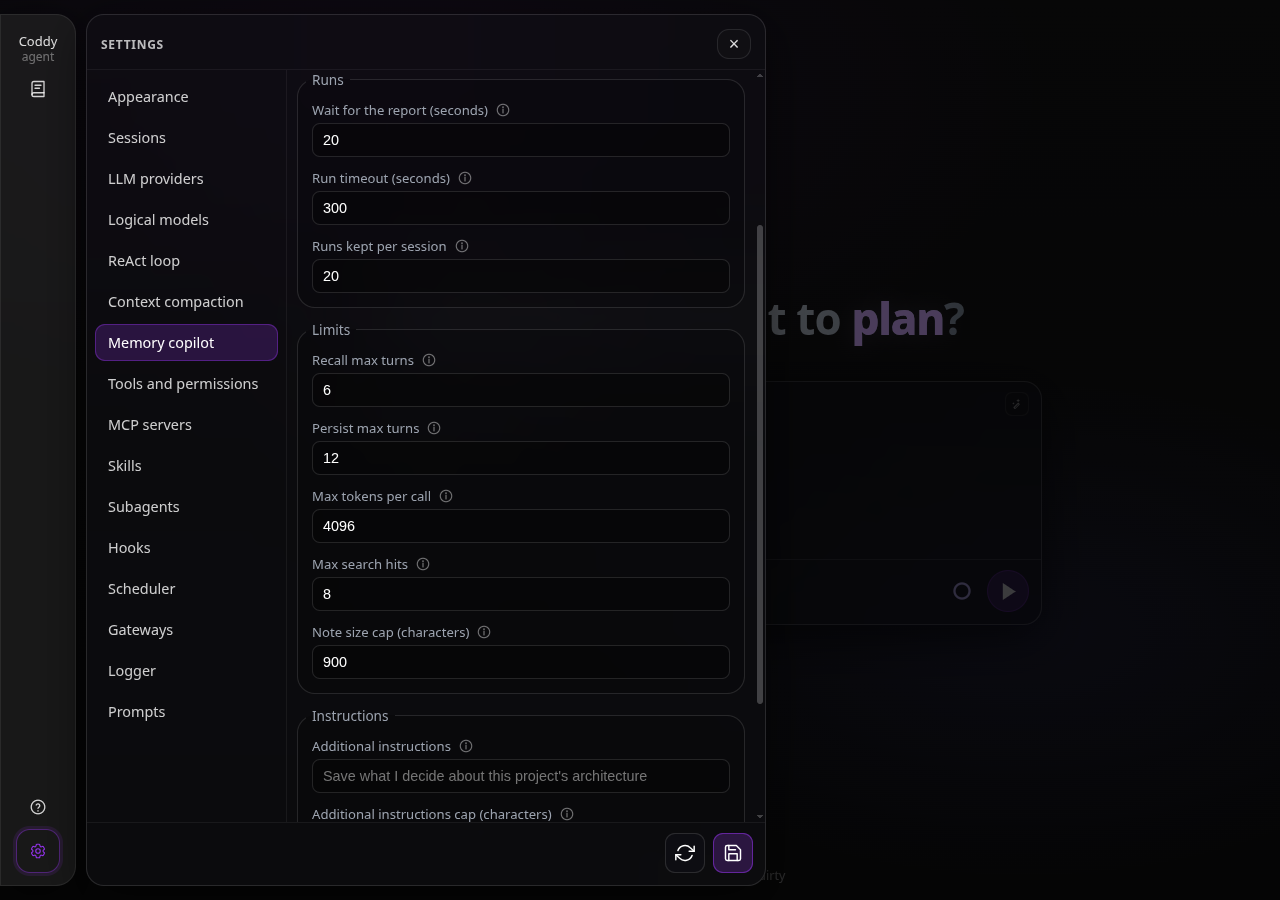
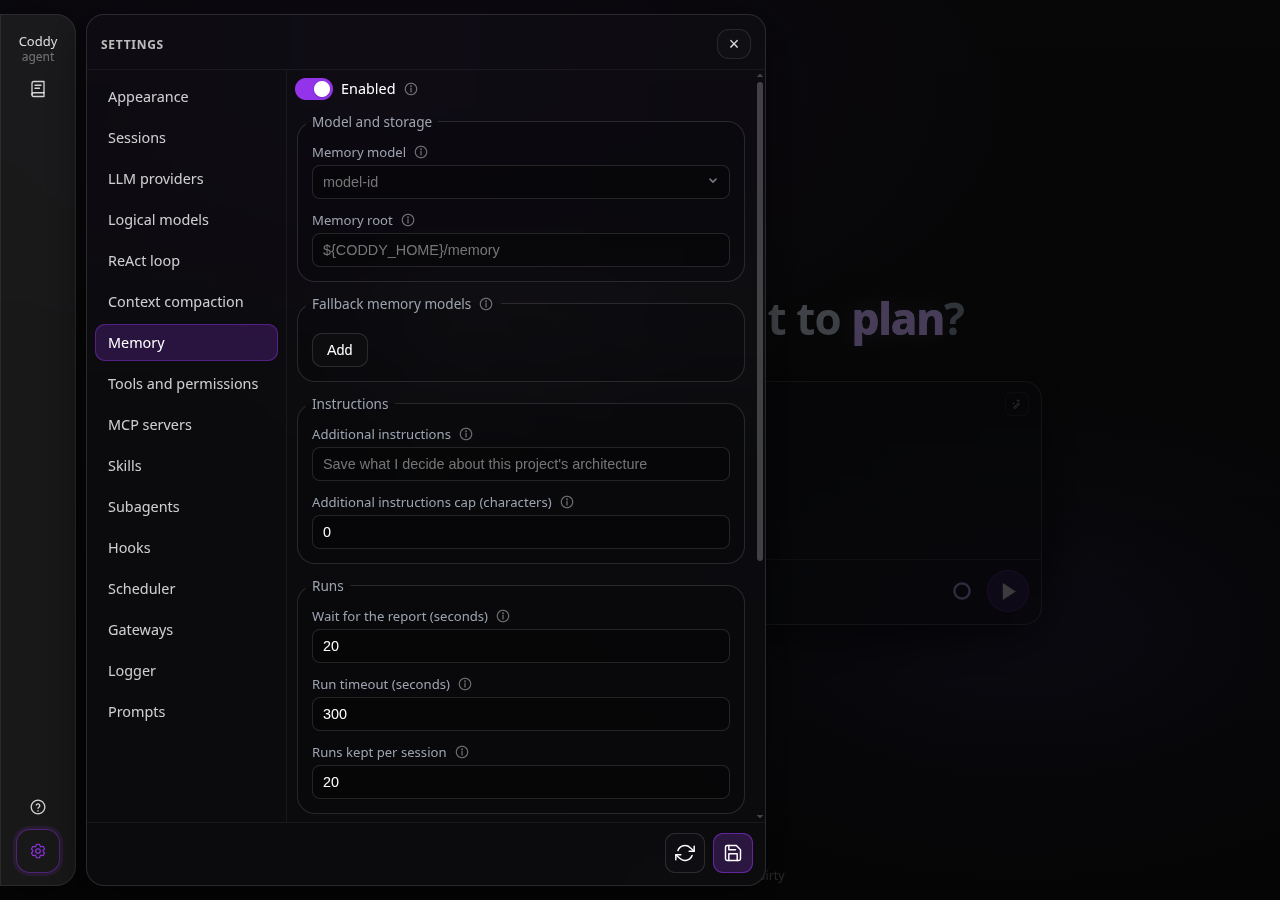
feat(ui): rename the Memory copilot tab to Memory and reorder its blocks
The settings tab is "Memory" ("Память" in Russian). Its blocks now read
Model and storage, Fallback memory models, Instructions, Runs, Limits: the
fallback list follows the model it backs up instead of closing the form,
and the operator's instructions come before the run bounds. DESIGN.md, the
web UI notes, the memory guide and its screenshot follow.

diff --git a/external/ui/src/ui/settings/settingsSections.test.ts b/external/ui/src/ui/settings/settingsSections.test.ts
@@ -41,7 +41,7 @@ const rootSchema: JsonSchema = {
     agent: { type: "object", title: "ReAct loop", properties: {} },
     tools: { type: "object", title: "Tools and permissions", properties: {} },
     skills: { type: "object", title: "Skills", properties: {} },
-    memory: { type: "object", title: "Memory copilot", properties: {} },
+    memory: { type: "object", title: "Memory", properties: {} },
     scheduler: { type: "object", title: "Scheduler", properties: {} },
     prompts: { type: "object", title: "Prompts", properties: {} },
     instructions: { type: "object", title: "Instructions", properties: {} },
@@ -154,7 +154,7 @@ test("skills is its own combined tab; english labels match schema titles", () =>
   expect(byId.skills?.kind).toBe("skills");
   expect(byId.agent?.kind).toBe("object");
   expect(byId.agent?.label).toBe("ReAct loop");
-  expect(byId.memory?.label).toBe("Memory copilot");
+  expect(byId.memory?.label).toBe("Memory");
 });
 
 test("known section labels and descriptions follow the active locale", () => {
@@ -165,7 +165,7 @@ test("known section labels and descriptions follow the active locale", () => {
   expect(byId.appearance?.label).toBe("Оформление");
   expect(byId.providers?.label).toBe("Провайдеры LLM");
   expect(byId.tools?.label).toBe("Инструменты и разрешения");
-  expect(byId.memory?.label).toBe("Копайлот памяти");
+  expect(byId.memory?.label).toBe("Память");
   expect(byId.scheduler?.label).toBe("Планировщик");
   expect(byId.compaction?.label).toBe("Сжатие контекста");
   expect(byId.compaction?.description).toBe("Сжатие истории диалога");

diff --git a/external/ui/src/ui/settings/SettingsSection.tsx b/external/ui/src/ui/settings/SettingsSection.tsx
@@ -781,6 +781,11 @@ function objectSectionGroups(key: string): SchemaFormGroup[] | undefined {
         paths: ["model", "dir"],
       },
       {
+        id: "instructions",
+        legend: translate("settings.group.memory.instructions"),
+        paths: ["additional_prompt", "additional_prompt_max_chars"],
+      },
+      {
         id: "runs",
         legend: translate("settings.group.memory.runs"),
         paths: ["wait_seconds", "timeout_seconds", "keep_runs"],
@@ -795,11 +800,6 @@ function objectSectionGroups(key: string): SchemaFormGroup[] | undefined {
           "max_search_hits",
           "max_note_chars",
         ],
-      },
-      {
-        id: "instructions",
-        legend: translate("settings.group.memory.instructions"),
-        paths: ["additional_prompt", "additional_prompt_max_chars"],
       },
     ];
   }

diff --git a/external/ui/src/ui/i18n/messages/ru.ts b/external/ui/src/ui/i18n/messages/ru.ts
@@ -83,7 +83,7 @@ export const messagesRu: Record<string, string> = {
   "settings.section.tools.label": "Инструменты и разрешения",
   "settings.section.mcp_servers.label": "MCP-серверы",
   "settings.section.skills.label": "Навыки",
-  "settings.section.memory.label": "Копайлот памяти",
+  "settings.section.memory.label": "Память",
   "settings.section.system.label": "Промпты",
   "settings.section.compaction.label": "Сжатие контекста",
   "settings.section.subagents.label": "Субагенты",

diff --git a/external/ui/src/ui/i18n/messages/en.ts b/external/ui/src/ui/i18n/messages/en.ts
@@ -88,7 +88,7 @@ export const messagesEn: Record<string, string> = {
   "settings.section.tools.label": "Tools and permissions",
   "settings.section.mcp_servers.label": "MCP servers",
   "settings.section.skills.label": "Skills",
-  "settings.section.memory.label": "Memory copilot",
+  "settings.section.memory.label": "Memory",
   "settings.section.system.label": "Prompts",
   "settings.section.compaction.label": "Context compaction",
   "settings.section.subagents.label": "Subagents",

diff --git a/internal/config/ui_schema.go b/internal/config/ui_schema.go
@@ -605,7 +605,7 @@ func UISchemaMap() map[string]interface{} {
 			},
 			[]string{"dirs", "project_trust", "auto_discovery"},
 			nil),
-		"memory": objectSchema("Memory copilot", "Optional memory subagent (requires the memory build tag and a provider).",
+		"memory": objectSchema("Memory", "Optional memory subagent (requires the memory build tag and a provider).",
 			map[string]interface{}{
 				"enable": boolProp("Enabled", "Runs the memory subagent on every user turn (memory build tag)."),
 				"model":  strProp("Memory model", "Logical model the memory subagent runs on; empty uses the session's model."),
@@ -627,7 +627,7 @@ func UISchemaMap() map[string]interface{} {
 				"additional_prompt":           strProp("Additional instructions", "Your own instructions for the memory subagent, a section of its system prompt; the main agent never sees them."),
 				"additional_prompt_max_chars": intProp("Additional instructions cap (characters)", "Longer instructions are cut at this many characters, with a warning in the log; 0 means no cap."),
 			},
-			[]string{"enable", "model", "dir", "wait_seconds", "timeout_seconds", "keep_runs", "recall_max_turns", "persist_max_turns", "copilot_max_tokens", "max_search_hits", "max_note_chars", "additional_prompt", "additional_prompt_max_chars"},
+			[]string{"enable", "model", "dir", "fallback_models", "additional_prompt", "additional_prompt_max_chars", "wait_seconds", "timeout_seconds", "keep_runs", "recall_max_turns", "persist_max_turns", "copilot_max_tokens", "max_search_hits", "max_note_chars"},
 			nil),
 		"scheduler": objectSchema("Scheduler", "Cron-style scheduled jobs (requires scheduler build tag). A run is a background agent task under the job's own session, the job's run history.",
 			map[string]interface{}{

diff --git a/DESIGN.md b/DESIGN.md
@@ -81,14 +81,14 @@ The right insights rail is removed for the current milestone.
 
 ### Settings drawer (tabbed master–detail)
 
-The **Settings** drawer (**`#/settings`**, **`Settings.tsx`**) is **tabbed**, not one long sheet. Tabs are derived from the live config JSON Schema (**`deriveSettingsSections`** over **`/coddy/config/schema`**): each top-level property is a tab (label from its **`title`**, or from **`settings.section.<id>.label`**) in the schema's own order (**`rootOrder`** in **`internal/config/ui_schema.go`**, pinned by **`TestUISchemaRootPropertyOrder`**), which reads in groups of meaning: where the models come from (**LLM providers**, **Logical models**), the loop that runs them (**ReAct loop**, **Context compaction**, **Memory copilot**), what the agent can do (**Tools and permissions**, **MCP servers**, **Skills**, **Subagents**, **Hooks**), what runs it without a person at the composer (**Scheduler**, **Gateways**), and the operation of the process (**Logger**, **Prompts**). The rarely edited tail (**`prompts`**, **`instructions`**; **`SYSTEM_KEYS`** in **`settingsSections.ts`**) folds into a single **Prompts** tab (id **`system`**, **`#/settings/system`**: the address and the id kept their old name), which always closes the list wherever its keys stand; the scheduler, the logger and the gateways are features with tabs of their own, and the **`sessions`** section (where the bundles are stored) is edited on the **Sessions** tab (**`SESSIONS_CONFIG_KEY`**). Two client-side tabs are placed **first** - **Appearance** (the default tab) and **Sessions** (**`sessions_manager`**, the session management table below). Both render before the schema has loaded; the Sessions tab adds its **Storage** fieldset once it has. There is no separate Appearance/Skills flyout or **`settings-dock-cluster`** side panel — both are tabs now.
+The **Settings** drawer (**`#/settings`**, **`Settings.tsx`**) is **tabbed**, not one long sheet. Tabs are derived from the live config JSON Schema (**`deriveSettingsSections`** over **`/coddy/config/schema`**): each top-level property is a tab (label from its **`title`**, or from **`settings.section.<id>.label`**) in the schema's own order (**`rootOrder`** in **`internal/config/ui_schema.go`**, pinned by **`TestUISchemaRootPropertyOrder`**), which reads in groups of meaning: where the models come from (**LLM providers**, **Logical models**), the loop that runs them (**ReAct loop**, **Context compaction**, **Memory**), what the agent can do (**Tools and permissions**, **MCP servers**, **Skills**, **Subagents**, **Hooks**), what runs it without a person at the composer (**Scheduler**, **Gateways**), and the operation of the process (**Logger**, **Prompts**). The rarely edited tail (**`prompts`**, **`instructions`**; **`SYSTEM_KEYS`** in **`settingsSections.ts`**) folds into a single **Prompts** tab (id **`system`**, **`#/settings/system`**: the address and the id kept their old name), which always closes the list wherever its keys stand; the scheduler, the logger and the gateways are features with tabs of their own, and the **`sessions`** section (where the bundles are stored) is edited on the **Sessions** tab (**`SESSIONS_CONFIG_KEY`**). Two client-side tabs are placed **first** - **Appearance** (the default tab) and **Sessions** (**`sessions_manager`**, the session management table below). Both render before the schema has loaded; the Sessions tab adds its **Storage** fieldset once it has. There is no separate Appearance/Skills flyout or **`settings-dock-cluster`** side panel — both are tabs now.
 
 - **Saving**: there is **no per-section save button**. The drawer footer keeps only **Reload** (**`data-testid="settings-reload"`**) and **Save all** (**`data-testid="settings-save"`**, PUTs the whole config after `/coddy/config/validate`). **Appearance** is client-side only and never touches the config PUT. **A save that went through says so on the Save button alone**: it turns green (**`.is-saved`**: green border, wash and a 2px halo, a short scale pop) for **`SAVE_SUCCESS_MS`** (2 s, **`Settings.tsx`**) and eases back to its own colour, with no line of text on screen (a screen reader hears **Saved** from an **`.sr-only`** status). The green is a state rather than a frame of the pop, so it holds under **`prefers-reduced-motion`**, where only the pop goes. **A failed save says why in words** in the lead pane (**`.settings-lead-pane`**, **`.settings-error`**), which stands between the head and the tabs only while a failed read or a failed save needs saying; the Save button stays as it was. The success line that used to sit in that pane (**All sections saved**) stayed on screen for as long as the drawer did, and it is gone.
 - **Loading**: the app keeps the schema and the config the drawer reads (**`settingsConfigStore.ts`**), so **only the first open of the page reads them**; every later open draws the tab the address names from that copy in its first frame, with no request and no other tab in between. The copy follows the server: **`config_reloaded`** and every reconnect of the events stream read it again in the background (**`noteSettingsConfigReloaded`** from **`App.tsx`**), and an open form takes the new copy while it holds no edits of its own - unsaved edits stay, and **Reload** is the deliberate way to drop the ones the form held when it was pressed (a field typed into while its read is on its way keeps what was typed). A save turns the button green only when the form was not edited while the request ran; a copy the untouched form took in the meantime is no edit. A save puts what it wrote into the copy at once (**`noteSettingsConfigSaved`**), so a reopen before the read after the save lands, or after that read failed, draws the saved values rather than the ones the save replaced; a read older than the save is dropped, and a copy older than a read that failed is read again by the next open. The first open, and an open after a first read that failed, shows **the requested tab as a skeleton** (**`SettingsSkeleton`**, **`data-testid="settings-skeleton"`**: a frame of grey label and input bars tinted from **`--text`**, shimmering unless **`prefers-reduced-motion`**), with grey rows in the rail (**`.settings-nav-item--placeholder`**) or the tile grid (**`.settings-tile--placeholder`**) for the tabs the schema will bring; the narrow shell's head names the section from the dictionary (**`knownSectionLabel`**). Appearance, which needs no schema, no longer stands in for the tab a deep link asked for. A copy that lands is taken **while rendering**, not in an effect after it: a frame drawn from an empty document showed a list with no rows, and the list read the **`?id=`** of the address as a stale row and rewrote it.
 - **Layout**: on **`min-width: 1200px`** the drawer is **`min(680px, …)`** wide - as wide as the section rail plus a content column that holds **three theme cards a row** on Appearance (**`auto-fill, minmax(130px, 1fr)`**, 10px gap), the cards keeping their size and the drawer giving way; **`appearanceSettingsLayout.test.tsx`** computes the column count from the two rules - with a vertical section rail on the left (**`.settings-nav`**) and the content panel on the right (**`.settings-tabs-layout`** is `display:flex; row`). On **`max-width: 1199px`** (same breakpoint as the rest of the shell, via **`isMobileShell`** / **`shellBreakpoint.ts`**) the nav is a **2-wide tile grid** master–detail (**`SettingsTileGrid`**, **`.settings-tile-grid`**): each tile (**`data-testid="settings-tile-<id>"`**) shows the section **title** on top and a short 3–5 word **description** below (**`SECTION_DESCRIPTIONS`** in **`settingsSections.ts`**) styled after the Scheduler job rows. The description clamps to two lines with an ellipsis (**`-webkit-line-clamp: 2`**) and the full text shows in a native **`title`** tooltip on hover. Tapping a tile opens that section with a **← Back to sections** arrow in the drawer's head (**`.settings-head-back`**); the desktop rail (**`SettingsNav`**) is unchanged. On that shell the drawer has **one inline inset**, **14px**, set by the head and the lead pane: the tile grid, the section content (**`.settings-scroll`**) and the reload / save footer all ride it (**`padding-inline: 14px`** inside the **`max-width: 1199px`** block), and the tile grid keeps the same **14px** off the head's rule above it, so every band of the panel starts and ends on the same edge. The wide layout keeps the content panel's own **8px**, because there its left edge is the seam against the section rail rather than the drawer's edge.
 - **Secrets the server never sends back** (**`writeOnly`** in the schema, **`x-coddy-configured`** on the document): **`httpserver.auth_token`**, the sign-in password hash and the swarm tokens (**`swarm.auth_token`**, **`swarm.pairing_tokens`**, a join entry's **`pairing_token`** and **`token`**) come back from **`GET /coddy/config`** as a **`*_configured`** flag, never as a value. Such a field is a password input that is **empty** while a value is set and says so in its placeholder (**Set. Leave empty to keep it**, else **Not set**); leaving it empty keeps the stored value, typing replaces it. A list of secrets says how many are set and hidden in a state line under its legend (**`settings.secret.listSet`**, counted per locale), and the values entered in it replace them all. The two-way credentials - a provider's **`api_key`**, a remote's **`token`** - stay ordinary text fields, because the page needs their value.
 - **The relay's own Settings.** On a relay's home (the app on a relay, not on a node behind it) the drawer edits the relay's deployment: **`GET /coddy/config/schema`** answers with the relay's form (**`config.RelayUISchemaJSON`**: **`swarm`** and **`logger`** only, **`x-coddy-relay: true`** at the root), and **`deriveSettingsSections(schema, {relay: true})`** draws **Appearance** and those two tabs; the **Sessions** tab, which manages the stored sessions of an agent, is left out, even before the schema has arrived. The document is scoped the same way (**`configapi.Backend.Sections`**): **`GET /coddy/config`** serves only **`swarm`**, **`logger`** and the revision, and a save takes only those and refuses any other section, so a relay client never reads the host's provider keys or writes its other settings. **Save all** PUTs that document, and the relay applies the **`swarm`** section at once (a listen address that moved takes a restart); the **`logger`** section is read when the process starts next, as an agent's is. A node reached through a relay shows that node's own Settings; a node that is itself a relay refuses a write sent through the mount (**403**), so a relay is edited only on its own page.
-- **Section form layout** (**`SchemaForm`** **`groups`**, **`SchemaFormGroup`** **`{id, legend, description?, paths?, collapsible?}`**): a settings form is fieldsets by meaning, not a column of loose fields. A section's own **`enable`** switch opens the form **outside every fieldset**, above everything, wherever the schema puts it (Subagents, Hooks, Memory copilot, Context compaction, Scheduler). A group with **`paths`** takes exactly those keys; the **first** group without **`paths`** is the catch-all and takes every key no group names, except a list or a nested object, which stands as a **block of its own** beside it rather than inside it. Every group stands **where its first field stands** in the schema order, blocks stand in place, and a key no group takes (one added to the schema later) still renders in place, so nothing silently leaves the form. A group's **`description`** is the (i) of its legend. The groups of each tab live in **`objectSectionGroups`** (**`SettingsSection.tsx`**): **ReAct loop** (Model and turns, Retries, Stream timeouts, Loop guard, Usage limits), **Context compaction** (Summarization), **Memory copilot** (Model and storage, Runs, Limits, Instructions), **Tools and permissions** (Permissions), **Hooks** (Hook settings), **Scheduler** (Jobs), **Logger** (Logger settings); the **Logical models** row form (**Model**: provider, id, context window, multimodal; **Generation**: max tokens, temperature, streaming; **Reasoning**: the levels and the default, passed through **`SettingsArraySection`** like the provider form's blocks), **Subagents** (Subagent settings), the **Sessions** tab (Storage) and each part of the **Prompts** tab (**Prompt templates**, and **Instruction files** as a block of its own) pass their own. Inside a nested object a list keeps its frame - the Telegram admins, user groups and per-chat overrides, the web search engines: there it belongs to the block around it. **Lists**: an entry of a list of plain values is a **bare input** beside its trash (**`ArrayItemControl`**, named **&lt;list&gt; N** for assistive technology), with no per-row label such as **`dirs[0]`**, no rule under the row, and **Add** under the rows; an entry of a list of objects is a frame of its own **without a legend** (**`.settings-array-entry`**, named the same way). The trash carries no margin, so a row is exactly as tall as its input (**`settingsDrawerRhythmCss.test.ts`**). **Maps**: a map of plain values - an object with no properties of its own whose every value is a string (**`isStringMapSchema`**), such as **`tools.http_request.default_headers`** - is a block like a list, and an entry is a row of **two bare inputs**, the name and then the value (**`.settings-map-entry`**, the value wider), beside its trash, named **&lt;map&gt; N: name** and **&lt;map&gt; N: value**, with **Add** under the rows. The rows are the form's own (**`StringMapField`**): a row whose name is still empty stays on screen and out of the document, of two rows with one name the later one wins, and a document that stops matching the rows (a reload, a save from elsewhere) replaces them while rendering. An empty value is kept, since for the headers it means "leave this one out". Tests: **`SchemaForm.groups.test.tsx`**, **`SchemaForm.map.test.tsx`**.
+- **Section form layout** (**`SchemaForm`** **`groups`**, **`SchemaFormGroup`** **`{id, legend, description?, paths?, collapsible?}`**): a settings form is fieldsets by meaning, not a column of loose fields. A section's own **`enable`** switch opens the form **outside every fieldset**, above everything, wherever the schema puts it (Subagents, Hooks, Memory, Context compaction, Scheduler). A group with **`paths`** takes exactly those keys; the **first** group without **`paths`** is the catch-all and takes every key no group names, except a list or a nested object, which stands as a **block of its own** beside it rather than inside it. Every group stands **where its first field stands** in the schema order, blocks stand in place, and a key no group takes (one added to the schema later) still renders in place, so nothing silently leaves the form. A group's **`description`** is the (i) of its legend. The groups of each tab live in **`objectSectionGroups`** (**`SettingsSection.tsx`**): **ReAct loop** (Model and turns, Retries, Stream timeouts, Loop guard, Usage limits), **Context compaction** (Summarization), **Memory** (Model and storage, then the fallback models as a block of their own, Instructions, Runs, Limits), **Tools and permissions** (Permissions), **Hooks** (Hook settings), **Scheduler** (Jobs), **Logger** (Logger settings); the **Logical models** row form (**Model**: provider, id, context window, multimodal; **Generation**: max tokens, temperature, streaming; **Reasoning**: the levels and the default, passed through **`SettingsArraySection`** like the provider form's blocks), **Subagents** (Subagent settings), the **Sessions** tab (Storage) and each part of the **Prompts** tab (**Prompt templates**, and **Instruction files** as a block of its own) pass their own. Inside a nested object a list keeps its frame - the Telegram admins, user groups and per-chat overrides, the web search engines: there it belongs to the block around it. **Lists**: an entry of a list of plain values is a **bare input** beside its trash (**`ArrayItemControl`**, named **&lt;list&gt; N** for assistive technology), with no per-row label such as **`dirs[0]`**, no rule under the row, and **Add** under the rows; an entry of a list of objects is a frame of its own **without a legend** (**`.settings-array-entry`**, named the same way). The trash carries no margin, so a row is exactly as tall as its input (**`settingsDrawerRhythmCss.test.ts`**). **Maps**: a map of plain values - an object with no properties of its own whose every value is a string (**`isStringMapSchema`**), such as **`tools.http_request.default_headers`** - is a block like a list, and an entry is a row of **two bare inputs**, the name and then the value (**`.settings-map-entry`**, the value wider), beside its trash, named **&lt;map&gt; N: name** and **&lt;map&gt; N: value**, with **Add** under the rows. The rows are the form's own (**`StringMapField`**): a row whose name is still empty stays on screen and out of the document, of two rows with one name the later one wins, and a document that stops matching the rows (a reload, a save from elsewhere) replaces them while rendering. An empty value is kept, since for the headers it means "leave this one out". Tests: **`SchemaForm.groups.test.tsx`**, **`SchemaForm.map.test.tsx`**.
 - **List sections** (**LLM Providers**, **Logical Models**) are **master–detail** (**`SettingsArraySection`**): a list of named buttons (labelled by **`name`** / **`model`**) with **Add**/**Remove**; **Add** or selecting a row hides the list and shows the item form. **The way back is the drawer's head, on every width**: while a row form is open the head reads what the form is (**`settings.item.<section>`**: **Provider settings**, **Model settings**; the section's name for a list without one) behind the same round back arrow the narrow shell's section view uses (**`.settings-head-back`**, **`data-testid="settings-head-back"`**, named **Back to &lt;list&gt;**), and the arrow closes the form onto the list (**`closeSignal`**; the list reports **`onEditingChange`**, so a row with no name yet is covered too). With no row open the desktop head reads **Settings** and the narrow shell's head names the section with its arrow back to the tiles. **Escape** takes the step the arrow takes while the head shows one, and closes the drawer when it shows none (**Escape and the screens of the rail**). The form carries no back control of its own inside the drawer (**`hideBackLink`**); outside it, **`SettingsArraySection`** keeps a quiet link, **`.settings-back-link`**, the app's chevron pointing left and the list's name. The open row is in the address, **`#/settings/<section>?id=<name>`** (**`appNavHrefSettingsSection`**, the name URL-encoded, so **`demo/qwen3.8-27b`** travels as **`demo%2Fqwen3.8-27b`**): opening a row writes it, going back takes it out, renaming the open row rewrites it (all with **`replaceState`**, no history entries), and an address naming a row opens it - one that names no row (a typo, a row deleted since) shows the list and drops the dead name from the address. The row form is **keyed by the row**, so switching rows through the address (edit to edit, never through the list) mounts a fresh form and nothing a field remembers - the proxy URL, a filter, a fold - crosses rows; an open form whose index is gone from the document falls back to the list. A row with no name yet keeps the address on the list while its form stays open; the row already open under a name stays open when a rename makes two rows share it. **`SettingsArraySection.test.tsx`** pins both directions; the drawer hands the address row only to the section the address names (**`appearanceSettingsLayout.test.tsx`**), because the tab catches up one render late and another list used to take the name for one of its own, find none and rewrite the address. The component is **keyed by the section** in **`SettingsSection`**: both tabs render the same component at the same place in the tree, and without the key a row form opened under LLM Providers stayed on screen when the operator switched to Logical Models, showing the first model's form instead of the list.
 - **Codex provider authentication**: when a provider row has **`type: codex`**, **`api_base`**, **`api_key`**, and **`api_key_command`** controls are replaced by **Sign In with ChatGPT**. The device-flow card shows the one-time code, a link to the official verification page, waiting/completed/error state, and **Sign Out** for Coddy-managed credentials. The token is server-side only.
 - **Proxy settings** (**`ProxySettingField`**, rendered through **`SchemaForm`**’s **`fieldOverride`** hook on path **`proxy`** for every provider type, codex included, and on **`telegram.proxy`** in the Gateways tab's Telegram block): an **Ignore system proxy** **`SwitchField`** (**`data-testid="proxy-setting-direct"`**) above the **Proxy URL** input (**`data-testid="proxy-setting-url"`**), both direct children of the form so they keep its spacing. The switch description names whose requests go direct (the provider's, or the bot's). The switch owns the **`none`** value; with it on the input is disabled (the muted look **`.settings-input:disabled`** shares with read-only inputs), empty, and its placeholder reads **Direct connection**. With it off the input holds the proxy URL, and an empty one (no value, or a stored **`inherit`**, any case) reads **Follows the system proxy**. Turning the switch off restores the last value the row held that was not **`none`** (typed, pasted or reloaded); that memory lives in the field for as long as the item form is open - the form mounts afresh for every row - because the document keeps one value, so a saved **`none`** no longer knows the URL it replaced.
@@ -96,7 +96,7 @@ The **Settings** drawer (**`#/settings`**, **`Settings.tsx`**) is **tabbed**, no
 - **Fieldset legends** start on the line their fields' labels start on: the legend's **6px** of padding, which opens the gap in the frame, is pulled back by **`margin-left: -6px`** (**`.settings-fieldset > legend`**, every settings fieldset); the provider **Models** rows hang their own 6px of padding the same way, so the ids share that line too.
 - **Provider form blocks**: a provider's form is three fieldsets (**`SchemaForm`** **`groups`**, passed through **`SettingsArraySection`**): **Provider settings** (id, type, endpoint, key, the sign-in blocks, the usage switch - every key no other group names), **Advanced settings** (**`api_key_command`**, **`proxy`**, **`timeout_ms`**), folded until opened, and the **Models** list last. A folding fieldset (**`CollapsibleFieldset`**) has the app's chevron **hanging in front of its name** in the legend (**`.settings-fieldset-toggle`**, **`aria-expanded`**), the way a transcript row's hangs in front of its label: the legend reaches **18px** further left than a plain one (**`margin-left: -24px`**: the plain -6px, then the 14px chevron and its 4px gap), so the name starts on the same line as every other legend's, and opened, the frame's gap takes the chevron in too. **Folded, there is no frame at all** - no border, no background, only the chevron and the name (**`.settings-fieldset--collapsible:not(.is-open)`**: the border turns transparent rather than going away, so the name stays where the framed box puts it); opening it shows an ordinary fieldset. The body stays mounted, **`hidden`**, so the proxy switch keeps the URL it remembers across a fold.
 - **Provider models list** (**`ProviderModelList`**, the **`itemFooter`** of the providers **`SettingsArraySection`**): the last block of a provider form lists what the provider advertises, fetched through **`POST /coddy/providers/models`** with the row **as the form holds it** (**`providerModelsRequest`**: name, type, api_base, api_key, api_key_command, proxy), so an unsaved row, a sign-in that exists only on disk and a provider the document does not have yet list their models like a saved one (issue #335). **`useAutoProviderModels`** fetches when the form opens and again when the row becomes **another provider** - its id or its type changed and stayed still for **`AUTO_FETCH_DEBOUNCE_MS`** (600 ms); an edit to the endpoint, the key or the proxy fetches nothing by itself and waits for the refresh icon, so a key typed next to a half-typed endpoint never travels to it. An automatic fetch **never carries `api_key_command`** (the server runs a posted command, and a half-typed one must not run); the refresh icon beside the legend name (**`.provider-models-refresh`**, 20px, the (i)'s metrics) fetches at once and is the only fetch that sends the command. There is **no count line**: a line under the legend (**`.provider-models-status`**) speaks only when there is nothing to list - fetching, the provider's error in **`.settings-error`** colour, an empty answer, a row without a name or a type. Rows are **compact and unframed**, no separators (**`.provider-models-item`**, 3px padding, 1px apart): the **id** in monospace (**`.provider-models-item-id`**, ellipsized), the **context window** the listing reports right of it (**`.provider-models-item-ctx`**, **`131k`**, the exact count, localized and pluralized, in its tooltip), then the **toggle** (**`.provider-models-toggle`**, 24px, **`aria-pressed`**): a plus adds **`provider/id`** to Logical Models, seeded through the same **`seedLogicalModel`** the Add button uses with the reported window written into **`max_context_tokens`**; an accent check says it is there and **takes it out again**. A row is only as wide as its content (**`align-self: flex-start`**, **`max-width: 100%`**), so the hover lights the id and its toggle, not the width of the box. An advertised display name that says more than the id is the row's tooltip (**`modelDisplayName`** drops one that only restyles the id). An id the document files under this provider that the provider no longer advertises stays in the list **amber**, checked, the reason in the row's tooltip and in the toggle's accessible name. Past **`PROVIDER_MODELS_FILTER_THRESHOLD`** (8) rows a filter field narrows the list, and the list scrolls inside the form past about twelve rows. Containment is pinned in **`ProviderModelList.test.tsx`**: the fieldset drops the **`min-content`** inline size every **`<fieldset>`** defaults to (**`min-inline-size: 0`**) and the id may shrink, because the first version of this box widened the form past a phone's panel.
-- **Logical Models** model field (**`ModelField`**) is **Provider**, a combobox over the document's **`providers[].name`** rows, unsaved edits included (a name the document does not list yet can still be typed), and **Model id**, a **plain text input** with no description, list or fetch control of its own: choosing among the ids a provider advertises is the provider form's job (**Provider models list** above), and a second picker here only repeated it. The value composes as **`provider/id`** on the **first** slash, so an id that itself contains slashes survives. **ReAct loop** and **Memory copilot** default-model fields and the **Context compaction** summarizer (**`compaction.model`**) use **`ModelPicker`**: they pick from the logical models of the settings document, unsaved edits included, or accept manual entry, and an empty field keeps the session model.
+- **Logical Models** model field (**`ModelField`**) is **Provider**, a combobox over the document's **`providers[].name`** rows, unsaved edits included (a name the document does not list yet can still be typed), and **Model id**, a **plain text input** with no description, list or fetch control of its own: choosing among the ids a provider advertises is the provider form's job (**Provider models list** above), and a second picker here only repeated it. The value composes as **`provider/id`** on the **first** slash, so an id that itself contains slashes survives. **ReAct loop** and **Memory** default-model fields and the **Context compaction** summarizer (**`compaction.model`**) use **`ModelPicker`**: they pick from the logical models of the settings document, unsaved edits included, or accept manual entry, and an empty field keeps the session model.
 - **Logical Models** context window (**`ContextWindowField`**, the **`fieldOverride`** on **`max_context_tokens`**): **0** means "the window the provider's listing reports, else **`DEFAULT_CONTEXT_WINDOW`** (128000)" at run time, so the field asks the provider (**`POST /coddy/providers/models`** with the row the model id points at, as the document holds it) and shows the answer where a bare 0 used to stand: an unset value renders empty with the placeholder **`131072, reported by demo`** (or **`128000, the default`** when the listing names no window), which writes nothing. A 40px refresh icon beside the input (**`.context-window-controls`**, input at **40px** height) asks again and **writes** the reported number, for an operator who wants it pinned; a note under the field (**`context-window-note`**) appears only after that explicit ask, when the provider does not report a window for the id or the request failed. A model added from the provider form's list arrives with **`max_context_tokens`** already set to the reported window (**`seedLogicalModel`**).
 - **Usage limits panel** (**`providers[].usage_limits_panel`**) is an ordinary **`SwitchField`** row at its schema position, rendered only for the provider types that have a usage source (**`neuraldeep`**, **`codex`**, **`devin`**, **`USAGE_PANEL_PROVIDER_TYPES`** in **`SettingsSection.tsx`**); for the other types the switch would change nothing, so it is not shown.
 - **Logical Models** reasoning-levels field (**`ReasoningLevelsField`**, rendered through **`SchemaForm`**’s **`fieldOverride`** hook on path **`reasoning_levels`**) owns the three states that key can be in and names the current one in a status line (**`data-testid="reasoning-levels-status"`**): **key absent** = levels auto-detected from the model id, **`[]`** = the composer reasoning selector is hidden for this model, **non-empty** = exactly these levels. The **Add** under the list keeps its own width (**`.settings-row-action`**, **`align-self: flex-start`**) rather than stretching across the field. An action row above the list carries **Fetch reasoning levels** (**`data-testid="reasoning-levels-fetch"`**, **`GET /coddy/config/reasoning-levels?model=&provider_type=`** for the id currently in the form and the type of the provider row it points at in the unsaved document, so it works before either entry is saved) and, whenever the key is present, **Use auto-detected** (**`data-testid="reasoning-levels-auto"`**) which drops the key again. A fetch that detects nothing leaves the field untouched rather than writing **`[]`**, because that would hide the selector instead of restoring detection. The status line always describes the list on screen first (override / hidden) and only falls back to fetch feedback (nothing detected / error) while the key is absent; retyping the model id or editing the list by hand clears that feedback and abandons the request in flight, so an answer that lands after the id changed, after a manual edit, or after the row was removed is dropped; an answer that does land goes through the newest **`onChange`** the form handed the field, never the one captured when the request started, so sibling fields edited meanwhile keep their values.

diff --git a/docs/surfaces/web-ui.md b/docs/surfaces/web-ui.md
@@ -106,9 +106,9 @@ Clear the field to use the session model for summarization.
 
 ## Settings: tabs and form layout
 
-- The tabs read in groups: **Appearance** and **Sessions**; where the models come from (**LLM providers**, **Logical models**); the loop that runs them (**ReAct loop**, **Context compaction**, **Memory copilot**); what the agent can do (**Tools and permissions**, **MCP servers**, **Skills**, **Subagents**, **Hooks**); what runs it without a person at the composer (**Scheduler**, **Gateways**); and the operation of the process (**Logger**, **Prompts**). **Prompts** holds the prompt templates and the instruction files and is always last.
+- The tabs read in groups: **Appearance** and **Sessions**; where the models come from (**LLM providers**, **Logical models**); the loop that runs them (**ReAct loop**, **Context compaction**, **Memory**); what the agent can do (**Tools and permissions**, **MCP servers**, **Skills**, **Subagents**, **Hooks**); what runs it without a person at the composer (**Scheduler**, **Gateways**); and the operation of the process (**Logger**, **Prompts**). **Prompts** holds the prompt templates and the instruction files and is always last.
 - **Sessions** edits where the session bundles are stored (**Storage**, `sessions.dir`) above the table of stored sessions; the table itself acts at once, the storage path saves with **Save all**.
-- A tab's own **Enabled** switch opens the form, above every block (Subagents, Hooks, Memory copilot, Context compaction, Scheduler). The other fields sit in fieldsets by meaning, for example **Model and turns**, **Retries**, **Stream timeouts**, **Loop guard** and **Usage limits** on **ReAct loop**; a list (definition directories, fallback models, component levels) is a block of its own beside them. Inside a nested block a list keeps its frame (the Telegram admins, user groups and per-chat overrides).
+- A tab's own **Enabled** switch opens the form, above every block (Subagents, Hooks, Memory, Context compaction, Scheduler). The other fields sit in fieldsets by meaning, for example **Model and turns**, **Retries**, **Stream timeouts**, **Loop guard** and **Usage limits** on **ReAct loop**; a list (definition directories, fallback models, component levels) is a block of its own beside them. Inside a nested block a list keeps its frame (the Telegram admins, user groups and per-chat overrides).
 - A list of values is its inputs, each with a trash button, and **Add** under them: no per-row label and no rule between rows. An entry of a list of objects is a frame of its own, without a numbered title.
 - A map of values, such as the **Default headers** of **HTTP requests** (`tools.http_request.default_headers`), is a row per entry: the name and the value side by side, a trash button, and **Add** under the rows. A row without a name stays on screen and out of the saved configuration; an empty value is saved, and for a header it means "leave this header out".
 - Empty path fields show where the default leads (`${CODDY_HOME}/sessions`, `${CODDY_HOME}/memory`) or an example of what to write.

diff --git a/docs/features/memory.md b/docs/features/memory.md
@@ -106,7 +106,7 @@ A binary built with both `http` and `memory` serves the two roots of a session a
 | POST | `/coddy/sessions/{id}/memory/dir` | `{"root","path"}` creates a folder |
 | DELETE | `/coddy/sessions/{id}/memory/file` | `root` and `path`; a file, or a folder recursively; `400` for the root itself |
 
-`workspace` is the project root of that session's cwd. Traversal outside a root is rejected. The session's own notes (`agentMemory` in `session.json`) are not editable here. These routes are the contract written down under [Long term memory](../surfaces/web-ui.md#long-term-memory) in the web UI notes; the memory keys themselves are the **Memory copilot** tab of the web UI's Settings.
+`workspace` is the project root of that session's cwd. Traversal outside a root is rejected. The session's own notes (`agentMemory` in `session.json`) are not editable here. These routes are the contract written down under [Long term memory](../surfaces/web-ui.md#long-term-memory) in the web UI notes; the memory keys themselves are the **Memory** tab of the web UI's Settings.
 
 ## Configuration
 
@@ -144,11 +144,11 @@ memory:
 | `additional_prompt` | `""` | your own instructions for the memory subagent, rendered as its **Operator instructions** section; the main agent never sees them |
 | `additional_prompt_max_chars` | `0` | cut `additional_prompt` at that many characters, with a warning in the agent log and a `coddy -t` finding; `0` keeps it whole |
 
-The field table is in the [config.yaml reference](../reference/config.md#memory); `config.example.yaml` carries the same block with comments. The web UI edits the same keys under **Settings → Memory copilot**, grouped into **Model and storage**, **Runs**, **Limits** and **Instructions**.
+The field table is in the [config.yaml reference](../reference/config.md#memory); `config.example.yaml` carries the same block with comments. The web UI edits the same keys under **Settings → Memory**, grouped into **Model and storage**, the **Fallback memory models** list under it, **Instructions**, **Runs** and **Limits**.
 
-![Settings → Memory copilot: the Runs, Limits and Instructions blocks](../assets/memory/memory-settings-dark-1280.png)
+![Settings → Memory: the model, the fallback models, the instructions, the runs and the limits](../assets/memory/memory-settings-dark-1280.png)
 
-*Settings → Memory copilot: the wait, the timeout and the runs kept, the turn and token limits with the note size cap, and the operator's additional instructions with their cap*
+*Settings → Memory: the model and the fallback models, the operator's additional instructions with their cap, the wait, the timeout and the runs kept, and the turn and token limits with the note size cap*
 
 ## Cost and latency
 

diff --git a/docs/assets/INDEX.md b/docs/assets/INDEX.md
@@ -189,7 +189,7 @@ Generated by `make docs`. "Used by" lists the files that reference the asset.
 | File | Size | Used by |
 |------|------|---------|
 | `memory-child-transcript-dark-1280.png` | 189 KB | docs/features/memory.md |
-| `memory-settings-dark-1280.png` | 174 KB | docs/features/memory.md |
+| `memory-settings-dark-1280.png` | 177 KB | docs/features/memory.md |
 | `memory-tasks-detail-dark-1280.png` | 234 KB | docs/features/memory.md |
 | `memory-tasks-running-dark-1280.png` | 158 KB | docs/features/memory.md |
 
